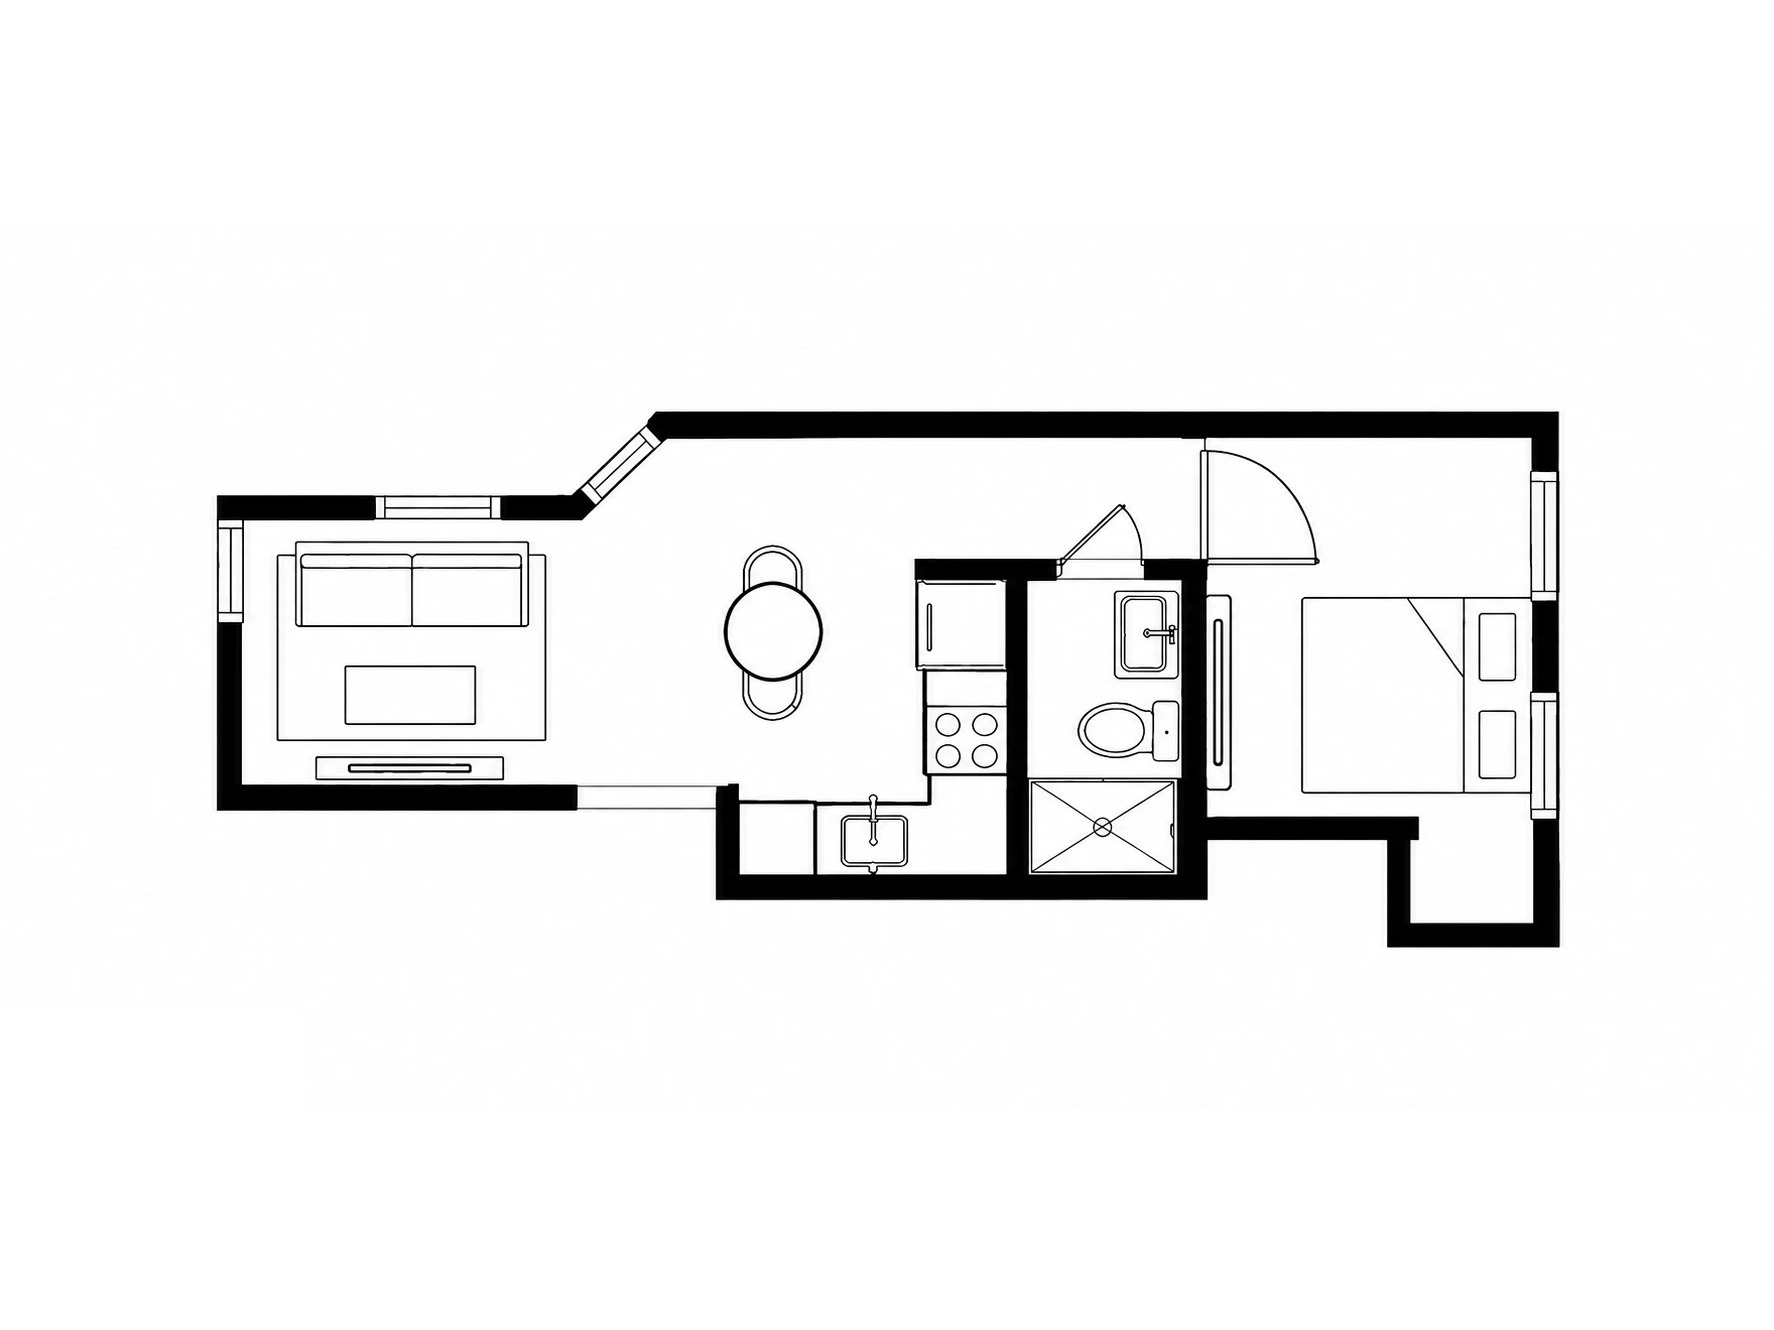
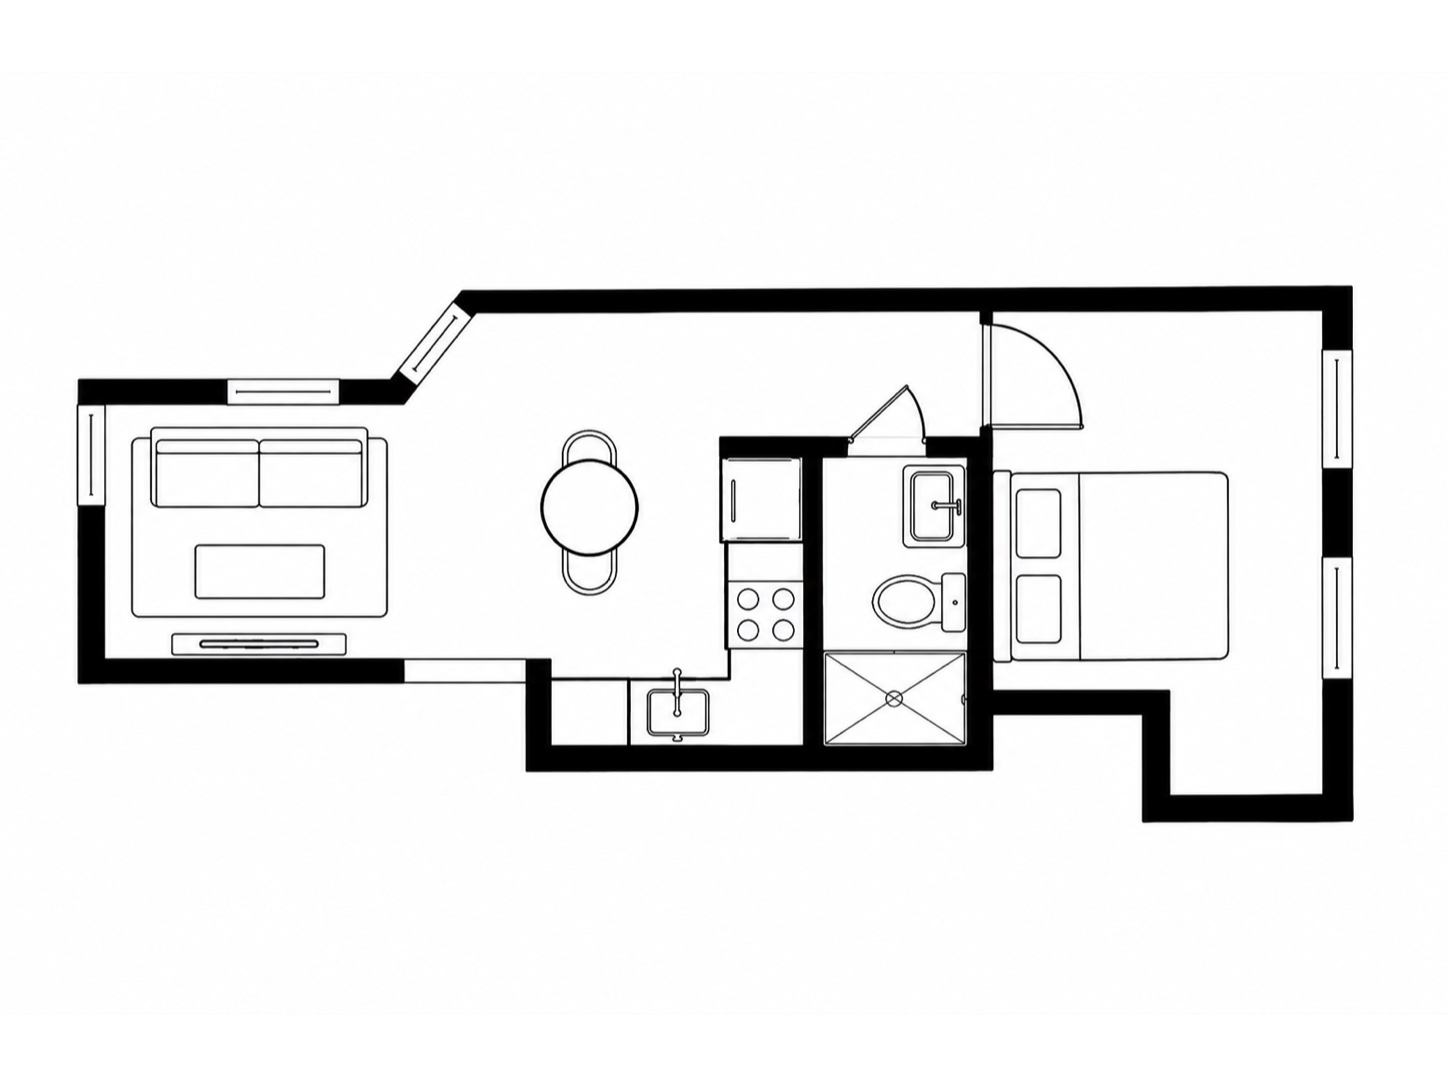
15 Park Row 14G and Mott 7: new bathroom, bedroom and floor plans
14G: bathroom replaced, floor plan added as the tenth photo, padded to 4:3
on white and tiled with background-size:contain.

Mott 7: bedroom and floor plan both replaced in place.

?v=2 on the three replaced filenames. The Knox, Axel and 5C folders held the
same images already shipped, except the Knox roofdeck and floor plan, which
still carry a burned-in logo and stay out.

Changed region(s): [[0.0311, 0.2431, 0.9323, 0.7597], [0.3729, 0.395, 0.4662, 0.547]]

diff --git a/park-row-14g.html b/park-row-14g.html
@@ -143,15 +143,16 @@
     <div class="gimg big" style="background-image:url('15-park-row-14g-git/park-row-14g-1.jpg')" onclick="openLightbox(0)"></div>
       <div class="gimg" style="background-image:url('15-park-row-14g-git/park-row-14g-2.jpg')" onclick="openLightbox(1)"></div>
       <div class="gimg" style="background-image:url('15-park-row-14g-git/park-row-14g-3.jpg')" onclick="openLightbox(2)"></div>
-      <div class="gimg" style="background-image:url('15-park-row-14g-git/park-row-14g-4.jpg')" onclick="openLightbox(3)"></div>
+      <div class="gimg" style="background-image:url('15-park-row-14g-git/park-row-14g-4.jpg?v=2')" onclick="openLightbox(3)"></div>
       <div class="gimg" style="background-image:url('15-park-row-14g-git/park-row-14g-5.jpg')" onclick="openLightbox(4)"></div>
       <div class="gimg" style="background-image:url('15-park-row-14g-git/park-row-14g-6.jpg')" onclick="openLightbox(5)"></div>
       <div class="gimg" style="background-image:url('15-park-row-14g-git/park-row-14g-7.jpg')" onclick="openLightbox(6)"></div>
       <div class="gimg" style="background-image:url('15-park-row-14g-git/park-row-14g-8.jpg')" onclick="openLightbox(7)"></div>
       <div class="gimg" style="background-image:url('15-park-row-14g-git/park-row-14g-9.jpg')" onclick="openLightbox(8)"></div>
+      <div class="gimg" style="background-image:url('15-park-row-14g-git/park-row-14g-floorplan.jpg');background-size:contain;background-repeat:no-repeat;background-color:#fff" onclick="openLightbox(9)"></div>
   </section>
 
-  <div class="gallery-cta"><button onclick="openLightbox(0)">View All 9 Photos</button></div>
+  <div class="gallery-cta"><button onclick="openLightbox(0)">View All 10 Photos</button></div>
 
   <section class="pmain">
     <div class="pdesc">
@@ -186,7 +187,7 @@
 
 <script src="https://unpkg.com/leaflet@1.9.4/dist/leaflet.js" integrity="sha384-cxOPjt7s7Iz04uaHJceBmS+qpjv2JkIHNVcuOrM+YHwZOmJGBXI00mdUXEq65HTH" crossorigin="anonymous" referrerpolicy="no-referrer"></script>
 <script>
-  const photos = ['15-park-row-14g-git/park-row-14g-1.jpg','15-park-row-14g-git/park-row-14g-2.jpg','15-park-row-14g-git/park-row-14g-3.jpg','15-park-row-14g-git/park-row-14g-4.jpg','15-park-row-14g-git/park-row-14g-5.jpg','15-park-row-14g-git/park-row-14g-6.jpg','15-park-row-14g-git/park-row-14g-7.jpg','15-park-row-14g-git/park-row-14g-8.jpg','15-park-row-14g-git/park-row-14g-9.jpg'];
+  const photos = ['15-park-row-14g-git/park-row-14g-1.jpg','15-park-row-14g-git/park-row-14g-2.jpg','15-park-row-14g-git/park-row-14g-3.jpg','15-park-row-14g-git/park-row-14g-4.jpg?v=2','15-park-row-14g-git/park-row-14g-5.jpg','15-park-row-14g-git/park-row-14g-6.jpg','15-park-row-14g-git/park-row-14g-7.jpg','15-park-row-14g-git/park-row-14g-8.jpg','15-park-row-14g-git/park-row-14g-9.jpg','15-park-row-14g-git/park-row-14g-floorplan.jpg'];
   let currentPhoto = 0;
   function openLightbox(i) {
     currentPhoto = i;

diff --git a/mott-7.html b/mott-7.html
@@ -141,10 +141,10 @@
 
   <section class="gallery">
     <div class="gimg big" style="background-image:url('223-mott-street-7-git/mott-7-1.jpg')" onclick="openLightbox(0)"></div>
-      <div class="gimg" style="background-image:url('223-mott-street-7-git/mott-7-2.jpg')" onclick="openLightbox(1)"></div>
+      <div class="gimg" style="background-image:url('223-mott-street-7-git/mott-7-2.jpg?v=2')" onclick="openLightbox(1)"></div>
       <div class="gimg" style="background-image:url('223-mott-street-7-git/mott-7-3.jpg')" onclick="openLightbox(2)"></div>
       <div class="gimg" style="background-image:url('223-mott-street-7-git/mott-7-4.jpg')" onclick="openLightbox(3)"></div>
-      <div class="gimg" style="background-image:url('223-mott-street-7-git/mott-7-floorplan.jpg');background-size:contain;background-repeat:no-repeat;background-color:#fff" onclick="openLightbox(4)"></div>
+      <div class="gimg" style="background-image:url('223-mott-street-7-git/mott-7-floorplan.jpg?v=2');background-size:contain;background-repeat:no-repeat;background-color:#fff" onclick="openLightbox(4)"></div>
   </section>
 
   <div class="gallery-cta"><button onclick="openLightbox(0)">View All 5 Photos</button></div>
@@ -181,7 +181,7 @@
 
 <script src="https://unpkg.com/leaflet@1.9.4/dist/leaflet.js" integrity="sha384-cxOPjt7s7Iz04uaHJceBmS+qpjv2JkIHNVcuOrM+YHwZOmJGBXI00mdUXEq65HTH" crossorigin="anonymous" referrerpolicy="no-referrer"></script>
 <script>
-  const photos = ['223-mott-street-7-git/mott-7-1.jpg','223-mott-street-7-git/mott-7-2.jpg','223-mott-street-7-git/mott-7-3.jpg','223-mott-street-7-git/mott-7-4.jpg','223-mott-street-7-git/mott-7-floorplan.jpg'];
+  const photos = ['223-mott-street-7-git/mott-7-1.jpg','223-mott-street-7-git/mott-7-2.jpg?v=2','223-mott-street-7-git/mott-7-3.jpg','223-mott-street-7-git/mott-7-4.jpg','223-mott-street-7-git/mott-7-floorplan.jpg?v=2'];
   let currentPhoto = 0;
   function openLightbox(i) {
     currentPhoto = i;
